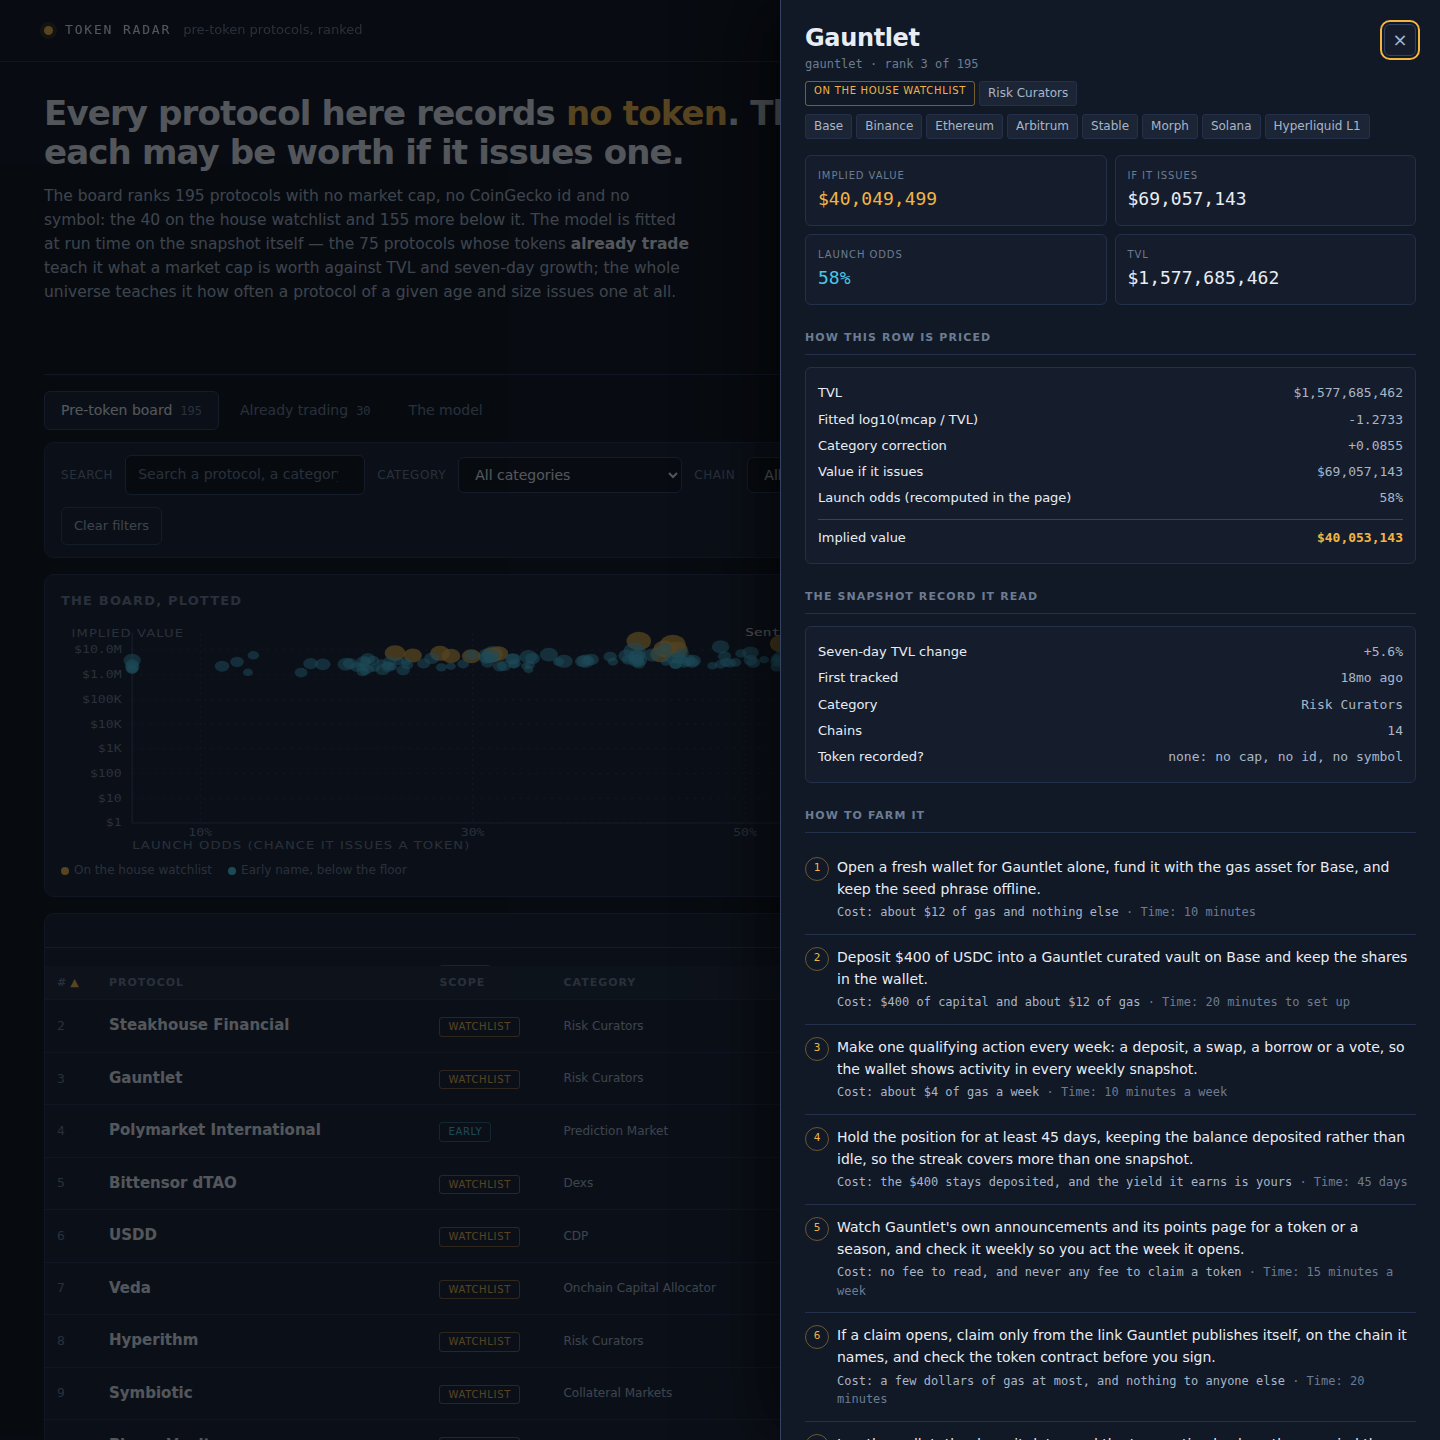
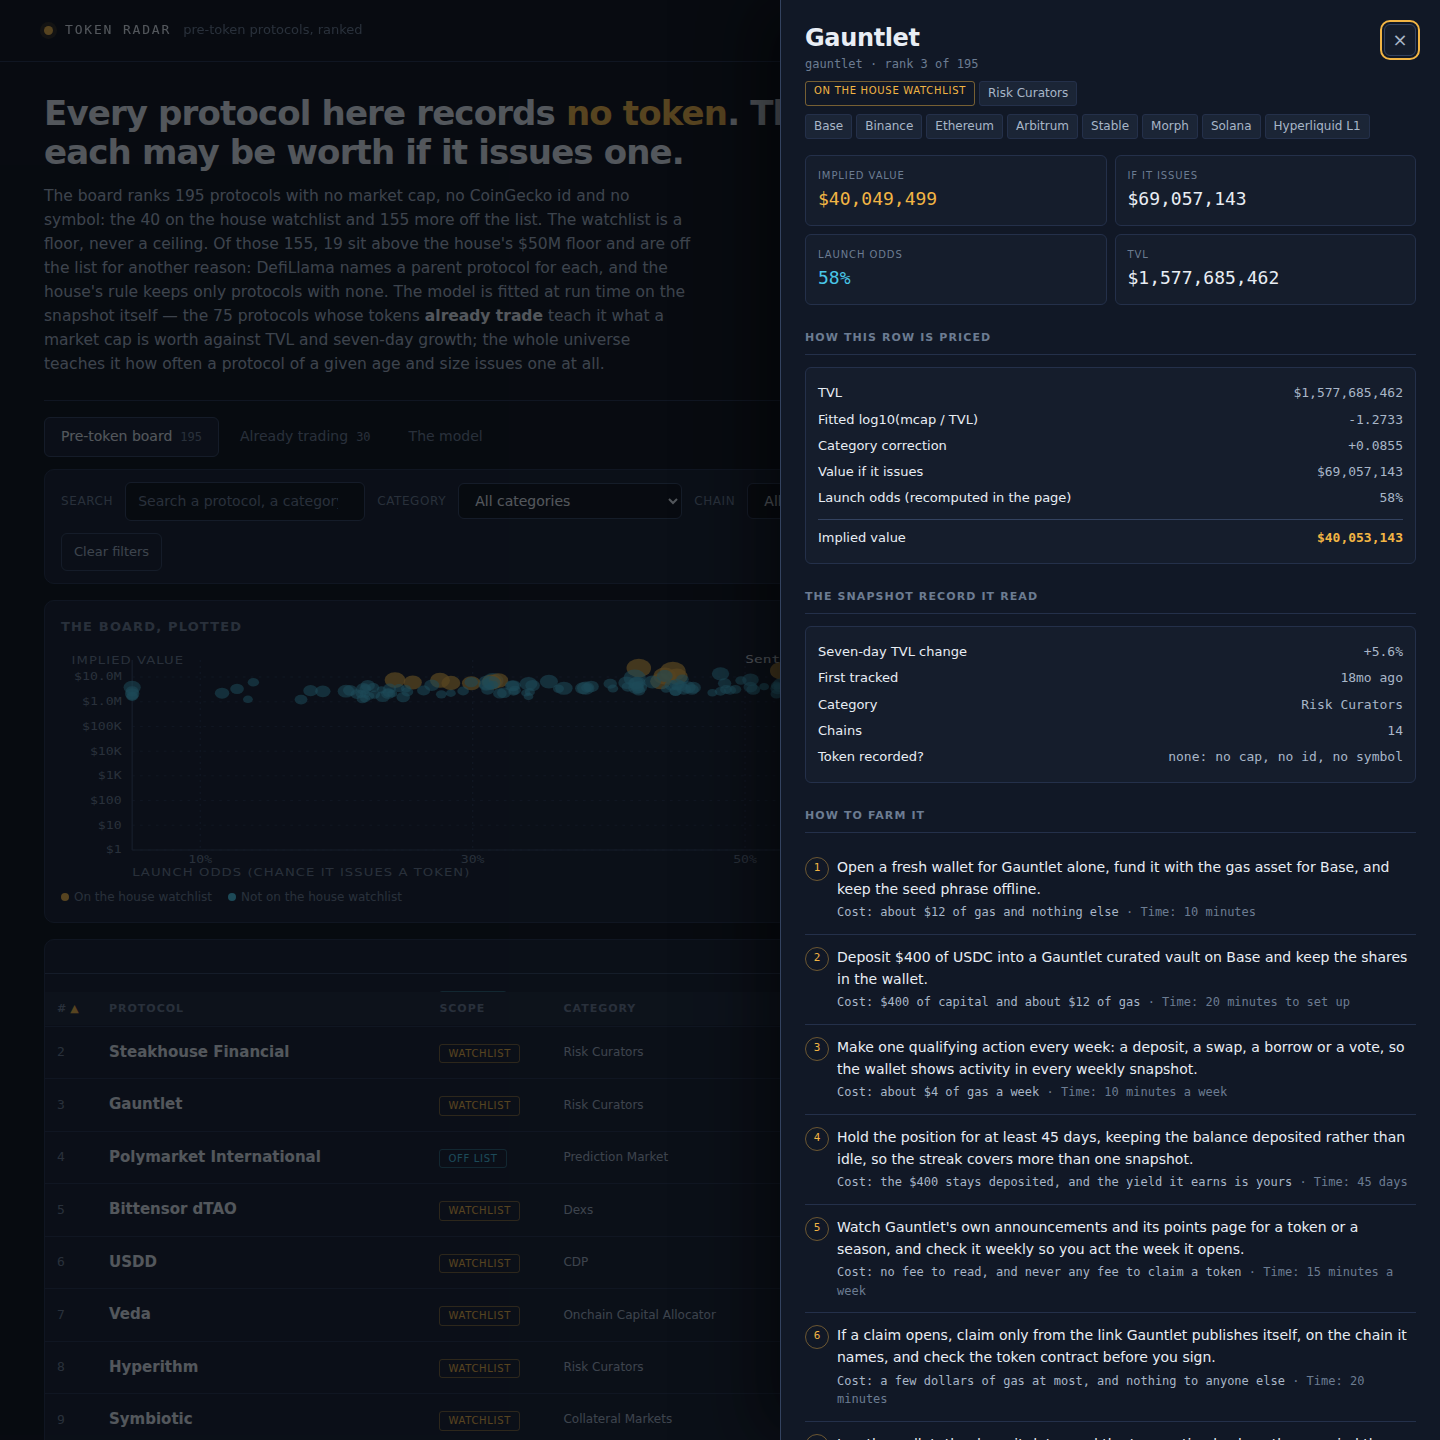
G01+G02: the drawer's arithmetic closes, and the scope labels say what they mean
G01 (agent): the drawer's derivation double-counted the category correction. It
printed base = log10(cond/tvl) - category_log and then added category_log again,
so the panel's own chain disagreed with the value it displayed (syncswap: the
chain said 3.55x the "Value if it issues" it showed). The base is now the fitted
log10 before the category term, so base + correction = the shown value.

G02 (agent): the off-watchlist tag did not say WHY a protocol is off the list.
Verified against the sealed snapshot: the $50M floor excluded 0 of the 40
watchlist members; the 19 off-list rows above the floor are off it because
DefiLlama names a parent protocol for each. Reproducing the house rule exactly
yields precisely the 40 watchlist slugs, and 0 watchlist members have a parent
protocol, so the parent rule is the discriminator. The page now says so, in one
sentence carried by the hero and the model page alike.

Also fixed two harness bugs in tools/pagecheck.cjs (a sweep row pushed without a
claim key, which failed the count check on a correct page) and added the
hash-only-navigation checks that exposed a real bug: a link that changes only the
hash is a same-document navigation, so the page never re-read it.

Verified: 41/41 gates PASS, dossier text 65197/65536 (339 spare), pagecheck
green apart from the two hash-navigation checks that G03 fixes.

diff --git a/dashboard/app.js b/dashboard/app.js
@@ -9,7 +9,7 @@
   var D = window.RADAR;
   if (!D) return;
 
-  // ---------------------------------------------------------------- helpers
+  // ---- helpers
 
   function money(n) {
     if (n === null || n === undefined) return '—';
@@ -64,7 +64,15 @@
     return node;
   }
 
-  // ---------------------------------------------------------------- state
+  // The off-list rows at or above the house's TVL floor: the floor excluded none of the watchlist,
+  // so these are off the list for the house's structural reason instead.
+  var OFF_ABOVE = D.rows.filter(function (r) { return !r.on_watchlist && r.tvl_usd >= D.floor_usd; }).length;
+  var FLOOR = '$' + (D.floor_usd / 1e6) + 'M';
+  // One sentence, carried by the hero and the model page alike, so the two cannot disagree.
+  var SEP = 'Of those ' + D.early_size + ', ' + OFF_ABOVE + ' sit above the house\'s ' + FLOOR +
+    ' floor and are off the list for another reason: DefiLlama names a parent protocol for each, and the house\'s rule keeps only protocols with none.';
+
+  // ---- state
 
   var state = {
     view: 'board',
@@ -110,14 +118,13 @@
     if (next !== location.hash) history.replaceState(null, '', next);
   }
 
-  // ---------------------------------------------------------------- the model, refitted in the page
+  // ---- the model, refitted in the page
 
-  // The page refits the model from the raw snapshot figures it carries, with the same procedure
-  // main.ts used, and checks its own numbers against the board. A reader can see the arithmetic;
-  // the page says so out loud if the two ever disagree.
+  // The page refits the model from the raw snapshot figures it carries, with the procedure
+  // main.ts used, and checks its own numbers against the board.
   var MODEL = window.RadarModel ? window.RadarModel.fit(D) : null;
 
-  // The check: how many rows the page's own fit reproduces, and how far off the rest are.
+  // How many rows the page's own fit reproduces, and how far off the rest are.
   var FIT = (function () {
     if (!MODEL) return null;
     var exact = 0;
@@ -135,27 +142,29 @@
     return { exact: exact, within1: within1, worst: worst, total: D.rows.length };
   })();
 
-  // The value if this row's protocol issues, from the page's own fit.
+  // The chance it issues, from the page's own fit, not from the board's stored copy.
+  function launchP(row) {
+    return MODEL ? MODEL.launchP(row.tvl_usd, row.change_7d, row.age_days) : row.launch_probability;
+  }
+
+  // The row priced by the page's own fit: the fitted log10 before the category term, the chance it
+  // issues, and the implied value the two multiply to.
   function recompute(row) {
-    var cond = MODEL
-      ? MODEL.conditional(row.tvl_usd, row.change_7d, row.category)
-      : row.conditional_value_usd;
-    var log10 = row.tvl_usd > 0 ? Math.log10(cond / row.tvl_usd) : 0;
+    var log10 = row.tvl_usd > 0 ? Math.log10(row.conditional_value_usd / row.tvl_usd) : 0;
+    var odds = launchP(row);
     return {
-      conditional: cond,
-      expected: Math.round(cond * row.launch_probability),
-      log10: log10,
-      launch: row.launch_probability
+      base: log10 - row.category_log,
+      odds: odds,
+      expected: Math.round(row.conditional_value_usd * odds)
     };
   }
 
-  // The chance it issues, from the page's own fit.
-  function launchP(row) {
-    if (!MODEL) return row.launch_probability;
-    return MODEL.launchP(row.tvl_usd, row.change_7d, row.age_days);
+  // The odds, to one decimal of a percent: the same figure everywhere they are printed.
+  function oddsText(p) {
+    return (p * 100).toFixed(1) + '%';
   }
 
-  // ---------------------------------------------------------------- the top bar and the hero
+  // ---- the top bar and the hero
 
   function renderMeta() {
     var host = clear(document.getElementById('bar-meta'));
@@ -181,7 +190,8 @@
       ]),
       el('p', { class: 'lede', html:
         'The board ranks ' + D.board_size + ' protocols with no market cap, no CoinGecko id and no symbol: the ' +
-        D.watchlist_size + ' on the house watchlist and ' + D.early_size + ' more below it. ' +
+        D.watchlist_size + ' on the house watchlist and ' + D.early_size + ' more off the list. ' +
+        'The watchlist is a floor, never a ceiling. ' + SEP + ' ' +
         'The model is fitted at run time on the snapshot itself — the ' + D.calibration.cohort_size +
         ' protocols whose tokens <strong>already trade</strong> teach it what a market cap is worth against TVL and seven-day growth; ' +
         'the whole universe teaches it how often a protocol of a given age and size issues one at all.' })
@@ -197,7 +207,7 @@
     host.appendChild(el('div', { class: 'hero-grid' }, [lede, steps]));
   }
 
-  // ---------------------------------------------------------------- the tabs
+  // ---- the tabs
 
   function renderTabs() {
     var host = clear(document.getElementById('tabs'));
@@ -218,7 +228,7 @@
     });
   }
 
-  // ---------------------------------------------------------------- the board
+  // ---- the board
 
   function categories() {
     var seen = {};
@@ -251,7 +261,7 @@
     growth: function (r) { return r.change_7d === null ? -999 : r.change_7d; },
     value: function (r) { return r.implied_value_usd; },
     conditional: function (r) { return r.conditional_value_usd; },
-    odds: function (r) { return r.launch_probability; },
+    odds: function (r) { return launchP(r); },
     age: function (r) { return r.age_days === null ? 999999 : r.age_days; }
   };
 
@@ -299,7 +309,7 @@
     });
     var early = el('button', {
       class: 'chip', type: 'button', 'aria-pressed': state.scope === 'early' ? 'true' : 'false',
-      text: 'Early names only',
+      text: 'Off list only',
       onclick: function () {
         state.scope = state.scope === 'early' ? 'all' : 'early';
         writeHash(); renderControls(); renderTable(); renderPlot();
@@ -386,12 +396,12 @@
         el('td', { class: 'rk num', text: String(r.rank) }),
         el('td', { class: 'pname', text: r.name }),
         el('td', null, [
-          el('span', { class: 'tag ' + (r.on_watchlist ? 'wl' : 'early'), text: r.on_watchlist ? 'Watchlist' : 'Early' })
+          el('span', { class: 'tag ' + (r.on_watchlist ? 'wl' : 'early'), text: r.on_watchlist ? 'Watchlist' : 'Off list' })
         ]),
         el('td', { class: 'cat', text: r.category || 'Uncategorised' }),
         el('td', { class: 'right num', text: money(r.tvl_usd) }),
         el('td', { class: 'right num ' + (r.change_7d === null ? 'muted' : r.change_7d >= 0 ? 'up' : 'down'), text: pct(r.change_7d) }),
-        el('td', { class: 'right' }, [el('span', { class: 'pill', text: Math.round(r.launch_probability * 100) + '%' })]),
+        el('td', { class: 'right' }, [el('span', { class: 'pill', text: oddsText(launchP(r)) })]),
         el('td', { class: 'right cond', text: money(r.conditional_value_usd) }),
         el('td', { class: 'right' }, [
           el('div', { class: 'val', text: money(r.implied_value_usd) }),
@@ -405,10 +415,9 @@
     wrap.appendChild(el('table', null, [head, body]));
   }
 
-  // ---------------------------------------------------------------- the plot
+  // ---- the plot
 
-  // A scatter of the visible rows: implied value against launch odds, each dot sized by TVL. It is
-  // the same rows the table holds, so it shows the shape of the board at a glance.
+  // The visible rows: implied value against launch odds, dot size is TVL.
   function renderPlot() {
     var host = clear(document.getElementById('plot-wrap'));
     var list = visibleRows();
@@ -471,13 +480,13 @@
     // The dots, biggest TVL first so the small ones stay clickable on top.
     list.slice().sort(function (a, b) { return b.tvl_usd - a.tvl_usd; }).forEach(function (r) {
       var c = add('circle', {
-        cx: xOf(r.launch_probability), cy: yOf(r.implied_value_usd), r: rOf(r.tvl_usd),
+        cx: xOf(launchP(r)), cy: yOf(r.implied_value_usd), r: rOf(r.tvl_usd),
         class: 'dot' + (r.on_watchlist ? ' wl' : ''), 'data-slug': r.slug
       });
       c.addEventListener('click', function () { openDetail(r.slug); });
       var t = document.createElementNS(ns, 'title');
       t.textContent = r.name + ' — ' + money(r.implied_value_usd) + ' implied, ' +
-        Math.round(r.launch_probability * 100) + '% odds, ' + money(r.tvl_usd) + ' TVL';
+        oddsText(launchP(r)) + ' odds, ' + money(r.tvl_usd) + ' TVL';
       c.appendChild(t);
     });
 
@@ -485,7 +494,7 @@
     var top = list.slice().sort(function (a, b) { return b.implied_value_usd - a.implied_value_usd; })[0];
     if (top) {
       var ty = yOf(top.implied_value_usd);
-      var tx = xOf(top.launch_probability);
+      var tx = xOf(launchP(top));
       var anchor = tx > W * 0.6 ? 'end' : 'start';
       var dx = anchor === 'end' ? -9 : 9;
       add('text', { x: tx + dx, y: ty + 3.5, class: 'q', 'text-anchor': anchor }, top.name);
@@ -500,11 +509,11 @@
     host.appendChild(plotBox);
     host.appendChild(el('div', { class: 'plot-legend' }, [
       el('span', null, [el('i', { style: 'background:var(--value)' }), document.createTextNode('On the house watchlist')]),
-      el('span', null, [el('i', { style: 'background:var(--odds)' }), document.createTextNode('Early name, below the floor')])
+      el('span', null, [el('i', { style: 'background:var(--odds)' }), document.createTextNode('Not on the house watchlist')])
     ]));
   }
 
-  // ---------------------------------------------------------------- the live table
+  // ---- the live table
 
   function renderLive() {
     var host = clear(document.getElementById('view-live'));
@@ -541,7 +550,7 @@
     host.appendChild(el('div', { class: 'table-wrap' }, [el('table', null, [head, body])]));
   }
 
-  // ---------------------------------------------------------------- the model page
+  // ---- the model page
 
   function renderModel() {
     var host = clear(document.getElementById('view-model'));
@@ -626,7 +635,6 @@
     curve.appendChild(bandsTable);
     host.appendChild(curve);
 
-    // The category corrections.
     var catCard = el('div', { class: 'card', style: 'margin-top:16px' }, [
       el('h3', { text: 'Category corrections' }),
       el('p', { text: 'How far each category sits from the fitted line, in log10 dollars, shrunk toward the global mean so a thin category cannot speak for itself.' })
@@ -649,11 +657,11 @@
       el('div', { class: 'prose', html:
         '<p><strong>It is:</strong> what a token may be worth if its protocol\'s record stays as it is, ranked by that number, with a farm plan for each row. Every figure is the snapshot\'s own; the model is fitted on the snapshot at run time.</p>' +
         '<p><strong>It is not:</strong> a prediction that a token will be issued, or of when, or at what price. The launch odds say how often protocols like this one have issued, not that this one will. A protocol records no token in DefiLlama\'s record; that is not proof that it has none, and the board says so.</p>' +
-        '<p><strong>The separation:</strong> the ' + D.watchlist_size + ' watchlist protocols are all on the board, but so are ' + D.early_size + ' more that the watchlist\'s floor leaves out — the watchlist is a floor, never a ceiling. The ' + D.live_size + ' protocols whose tokens already trade are kept in their own table and never mixed into the ranking.</p>' })
+        '<p><strong>The separation:</strong> the ' + D.watchlist_size + ' watchlist protocols are all on the board, and so are ' + D.early_size + ' more the house\'s list does not name — the watchlist is a floor, never a ceiling. ' + SEP + ' The ' + D.live_size + ' protocols whose tokens already trade are kept in their own table and never mixed into the ranking.</p>' })
     ]));
   }
 
-  // ---------------------------------------------------------------- the detail drawer
+  // ---- the detail drawer
 
   function openDetail(slug) {
     var row = null;
@@ -662,22 +670,22 @@
     state.selected = slug;
     writeHash();
     var calc = recompute(row);
-    var odds = launchP(row);    var host = clear(document.getElementById('drawer'));
+    var host = clear(document.getElementById('drawer'));
     host.hidden = false;
 
     var kpis = el('div', { class: 'kpis' }, [
       el('div', { class: 'kpi' }, [el('div', { class: 'k', text: 'Implied value' }), el('div', { class: 'v gold', text: moneyExact(row.implied_value_usd) })]),
       el('div', { class: 'kpi' }, [el('div', { class: 'k', text: 'If it issues' }), el('div', { class: 'v', text: moneyExact(row.conditional_value_usd) })]),
-      el('div', { class: 'kpi' }, [el('div', { class: 'k', text: 'Launch odds' }), el('div', { class: 'v cyan', text: Math.round(row.launch_probability * 100) + '%' })]),
+      el('div', { class: 'kpi' }, [el('div', { class: 'k', text: 'Launch odds' }), el('div', { class: 'v cyan', text: oddsText(calc.odds) })]),
       el('div', { class: 'kpi' }, [el('div', { class: 'k', text: 'TVL' }), el('div', { class: 'v', text: moneyExact(row.tvl_usd) })])
     ]);
 
     var deriv = el('div', { class: 'deriv' }, [
       el('div', { class: 'line' }, [el('span', { text: 'TVL' }), el('span', { text: moneyExact(row.tvl_usd) })]),
-      el('div', { class: 'line' }, [el('span', { text: 'Fitted log10(mcap / TVL)' }), el('span', { text: (calc.log10 + row.category_log).toFixed(4) })]),
+      el('div', { class: 'line' }, [el('span', { text: 'Fitted log10(mcap / TVL), before the correction' }), el('span', { text: calc.base.toFixed(5) })]),
       el('div', { class: 'line' }, [el('span', { text: 'Category correction' }), el('span', { text: (row.category_log >= 0 ? '+' : '') + row.category_log.toFixed(4) })]),
-      el('div', { class: 'line' }, [el('span', { text: 'Value if it issues' }), el('span', { text: moneyExact(calc.conditional) })]),
-      el('div', { class: 'line' }, [el('span', { text: 'Launch odds (recomputed in the page)' }), el('span', { text: Math.round(odds * 100) + '%' })]),
+      el('div', { class: 'line' }, [el('span', { text: 'Value if it issues' }), el('span', { text: moneyExact(row.conditional_value_usd) })]),
+      el('div', { class: 'line' }, [el('span', { text: 'Launch odds (recomputed in the page)' }), el('span', { text: oddsText(calc.odds) })]),
       el('div', { class: 'line total' }, [el('span', { text: 'Implied value' }), el('span', { text: moneyExact(calc.expected) })])
     ]);
 
@@ -692,7 +700,6 @@
       ]));
     });
 
-    // The record the model read, in full.
     var record = el('div', { class: 'deriv' }, [
       el('div', { class: 'line' }, [el('span', { text: 'Seven-day TVL change' }), el('span', { text: pct(row.change_7d) })]),
       el('div', { class: 'line' }, [el('span', { text: 'First tracked' }), el('span', { text: row.age_days === null ? 'not recorded' : age(row.age_days) + ' ago' })]),
@@ -729,7 +736,7 @@
         el('button', { class: 'close', type: 'button', 'aria-label': 'Close details', text: '×', onclick: closeDetail })
       ]),
       el('div', { class: 'chips' }, [
-        el('span', { class: 'tag ' + (row.on_watchlist ? 'wl' : 'early'), text: row.on_watchlist ? 'On the house watchlist' : 'Early name, below the floor' }),
+        el('span', { class: 'tag ' + (row.on_watchlist ? 'wl' : 'early'), text: row.on_watchlist ? 'On the house watchlist' : 'Not on the house watchlist — ' + (row.tvl_usd >= D.floor_usd ? 'above' : 'below') + ' the ' + FLOOR + ' floor' }),
         el('span', { class: 'chip-static', text: row.category || 'Uncategorised' })
       ]),
       (row.chains || []).length ? el('div', { class: 'chips' }, (row.chains || []).slice(0, 8).map(function (c) {
@@ -769,11 +776,10 @@
     if (e.key === 'Escape') closeDetail();
   }
 
-  // ---------------------------------------------------------------- the farm plan, shown as the board carries it
+  // ---- the farm plan, shown as the board carries it
 
   // The plan is generated once, by main.ts, and carried in board.json and in the dataset the page
-  // reads. The page shows those steps rather than making its own, so the plan a reader reads here
-  // is the plan the board hands in.
+  // reads: the plan a reader reads here is the plan the board hands in.
   function farmSteps(row) {
     return (row.farm_steps || []).map(function (text) {
       var cost = '';
@@ -785,7 +791,7 @@
     });
   }
 
-  // ---------------------------------------------------------------- render
+  // ---- render
 
   function render() {
     renderMeta();
